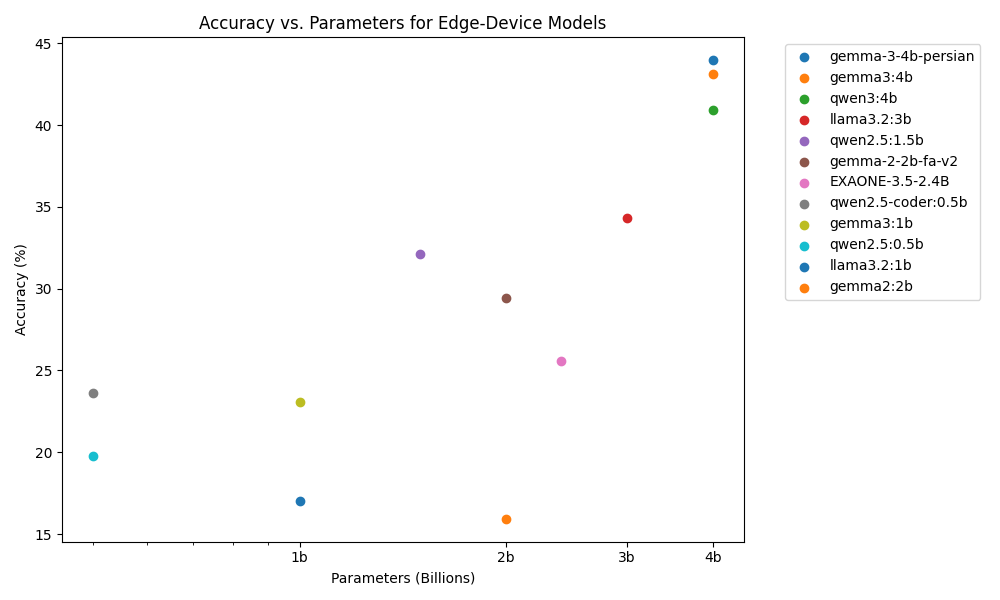
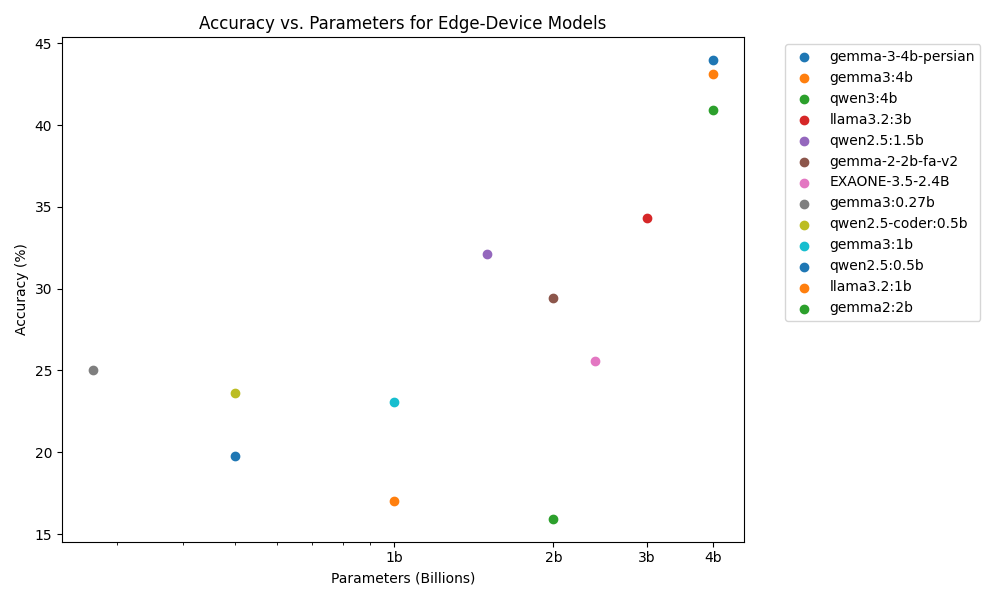
270m gemma

diff --git a/run_eval_ollama.py b/run_eval_ollama.py
@@ -14,7 +14,7 @@ def get_model_response(model_name, message):
 
 def evaluate_model():
     # Configure GPU settings
-    model_name = 'qwen3:4b'  
+    model_name = 'gemma3:270m'  
     gpu_device = os.environ.get("CUDA_VISIBLE_DEVICES", "0")
     print(f"Using GPU device: {gpu_device}")
     print(f"Evaluating model: {model_name}")
@@ -74,8 +74,8 @@ def evaluate_model():
 
         # GPU cool down every 10 questions
         if (i + 1) % 30 == 0 and i + 1 < total:
-            print(f"\n--- Processed 10 questions, pausing for 2 minutes for GPU cool down ---")
-            time.sleep(60)
+            print(f"\n--- Processed 10 questions, pausing for GPU cool down ---")
+            time.sleep(10)
             print(f"--- Resuming evaluation ---\n")
         
     accuracy = (correct_count / total) * 100

diff --git a/README.md b/README.md
@@ -24,7 +24,10 @@ The development of high-quality benchmarks for languages other than English is c
 
 ## Results
 
-Here are the results of the evaluation for different models.
+Here are the results of the evaluation for different models. For detailed evaluation results, you can check the following JSON files:
+
+- [API-based Models Evaluation Results](evaluation_results_api.json)
+- [Local Models Evaluation Results](evaluation_results_local.json)
 
 ### Accuracy
 
@@ -37,31 +40,6 @@ Analysis of the highest performing models
 Examination of smaller models suitable for edge devices
 
 ![Accuracy of Edge-Device Models](plots/accuracy_edge_models.png)
-
-### Accuracy vs Latency
-
-#### Top Models
-Evaluation of the trade-off between accuracy and response time
-
-![Accuracy vs. Latency for API-Based Models](plots/accuracy_vs_latency_top_models.png)
-
-#### Edge-Device Models
-Analysis of speed-performance balance in edge models
-
-![Accuracy vs. Latency for Edge-Device Models](plots/accuracy_vs_latency_edge_models.png)
-
-### Accuracy vs Parameters
-
-#### Top Models
-Investigation of the relationship between model size and performance
-
-![Accuracy vs. Parameters for API-Based Models](plots/accuracy_vs_parameters_top_models.png)
-
-#### Edge-Device Models
-Assessment of performance scaling in small models (<4B parameters)
-
-![Accuracy vs. Parameters for Edge-Device Models](plots/accuracy_vs_parameters_edge_models.png)
-
 
 ## Future Plan
 
